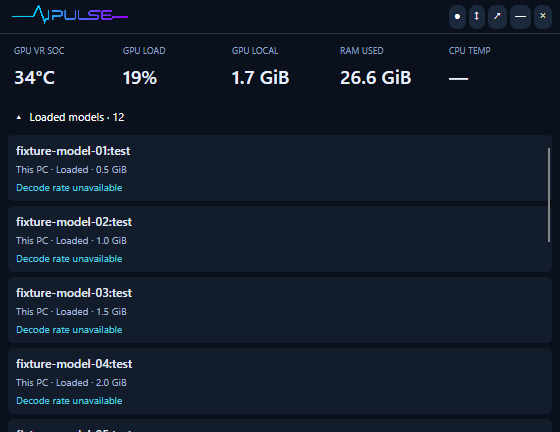
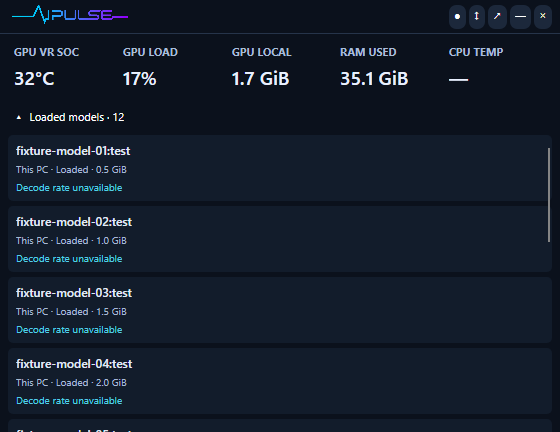
fix: enlarge compact labels and record installed sensor validation

diff --git a/src/AiPulse/MainWindow.cs b/src/AiPulse/MainWindow.cs
@@ -154,7 +154,7 @@ public sealed partial class MainWindow : Window
         if(service.Value("gpu.temperature")==null&&service.Readings.FirstOrDefault(r=>r.Name=="GPU VR SoC") is {Value:not null} soc){labels[0]="GPU VR SOC";ids[0]=soc.Id;}
         for(int i=0;i<ids.Length;i++)
         {
-            var label=Text(labels[i],9,"#8ea3c0");var value=Text(Format(ids[i]),19,"#e9f0ff",true);
+            var label=Text(labels[i],vertical?12:11,"#a9bdd9",true);label.FontWeight=FontWeight.Bold;var value=Text(Format(ids[i]),19,"#e9f0ff",true);
             var cell=new Grid{Margin=new Thickness(6,vertical?5:10),RowDefinitions=new RowDefinitions(vertical?"*":"Auto,*"),ColumnDefinitions=new ColumnDefinitions(vertical?"*,Auto":"*")};cell.Children.Add(label);
             if(vertical)Grid.SetColumn(value,1);else Grid.SetRow(value,1);cell.Children.Add(value);
             ToolTip.SetTip(cell,ids[i]=="cpu.temperature"&&service.Value(ids[i])==null?SensorDescription():service.LastSample==0?"Waiting for collector":J.Now-service.LastSample>8?"Reading is stale":"Live · updated every 2 seconds");

diff --git a/docs/VALIDATION.md b/docs/VALIDATION.md
@@ -9,6 +9,12 @@
 - Native Windows pointer input moved the expanded window from the body by 50 pixels horizontally and 30 vertically. Search typing preserved focus through live refreshes.
 - Icon generation checks corner alpha and embeds seven Windows icon resolutions.
 
-Current platform CI results, installed-app Ollama tests and sensor permission checks are recorded below after they complete. Physical Ubuntu GPU/temperature tests remain unperformed. Missing sensors stay unavailable; GPU VR SoC is not a GPU-core-temperature substitute.
+The Windows 0.2.0 installer upgraded the existing installation successfully. A verified pre-upgrade snapshot preserved 1,570 usage records; the existing data directory and 90-day preference were retained. The installed executable reports version 0.2.0.
+
+All seven [real Ollama checks](validation/ollama-windows-v020.json) passed from the installed app: non-streaming, streaming, concurrent generation/embedding, two resident models, preserved HTTP 404, exact token accounting and provider-matched decode rate. Three Qwen requests recorded exactly **75 input and 51 output tokens**. No model weights were downloaded.
+
+After the owner approved the isolated helper on October 19, CPU temperature was recorded continuously at approximately 46–48 °C. PawnIO was already installed; no security policy was changed. Deep-sensor permission remains session-scoped.
+
+The initial 0.2.0 build passed both Windows and Ubuntu CI in [run 39173518066](https://github.com/nikhilgs817/AI_PULSE/actions/runs/39173518066). A final build includes the requested larger bold compact labels. Physical Ubuntu GPU/temperature tests remain unperformed. Missing sensors stay unavailable; GPU VR SoC is not a GPU-core-temperature substitute.
 
 See the [previous preview's validation](VALIDATION-0.1.0.md) for the initial Windows/Ubuntu package, real Ollama and sensor-helper baseline. Historical results do not replace current-release checks.

diff --git a/docs/USER-GUIDE.md b/docs/USER-GUIDE.md
@@ -14,6 +14,8 @@ The dropdown screenshot above is a UI test using clearly named synthetic model e
 
 Use **↕ / ↔** in the small header to switch between **horizontal (560 × 132 logical pixels)** and **vertical (260 × 300)** layouts. The choice survives restarts. These dimensions exclude native window borders; physical pixels depend on display scaling.
 
+Metric labels use bold 12-point text vertically and 11-point text horizontally, with brighter contrast against the dark background.
+
 ![Vertical compact dashboard](images/compact-vertical.png)
 
 Drag any non-interactive part of the window—including metric labels, readings, cards and blank space—to move it. Buttons, text fields, dropdowns and scrollbars retain their normal interactions. The small circle pin control toggles always-on-top; its tooltip describes the action. Position is saved on a mode switch or close.
